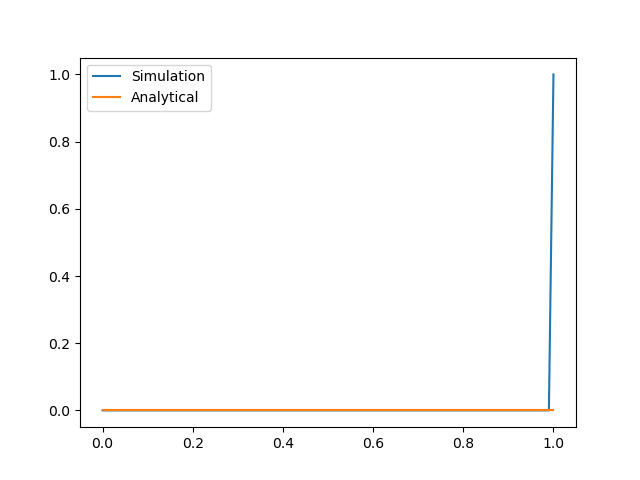
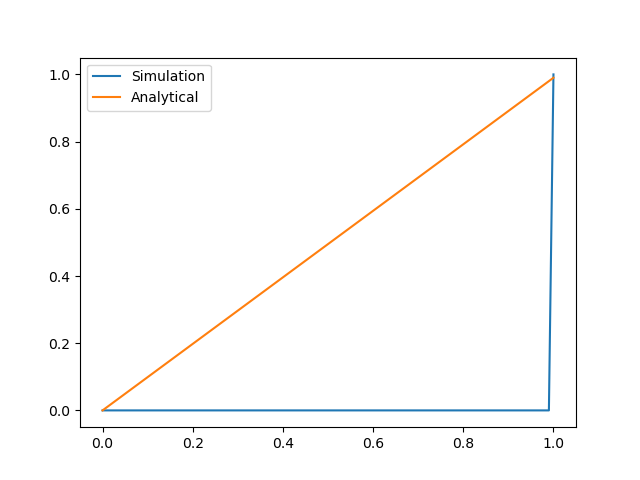
time independent

diff --git a/diffusion.py b/diffusion.py
@@ -43,26 +43,32 @@ def analytical(D, t, N):
 
     return line
 
-def plot(grid_list, analytical_list, t, N):
-    plt.plot(np.linspace(0, 1, N), grid_list[int(t/100)][:,0], label="Simulation")
-    plt.plot(np.linspace(0, 1, 25), analytical_list, label="Analytical")
+def plot(grid_list, analytical_list, t, N, animation_frames, delta_t):
+    plt.plot(np.linspace(0, 1, N), grid_list[int(delta_t*t/animation_frames)][:,0], label="Simulation")
+    plt.plot(np.linspace(0, 1, N), analytical_list, label="Analytical")
     plt.legend()
     plt.savefig(f"1.2_{t*delta_t:.3f}.png")
     plt.clf()
 
 delta_t = 0.00001
+animation_frames = 100
 
 grid_list = simulation(100, 1, 1, delta_t, run_simulation=False)
 
-for t in [1e-20, 0.001 / delta_t, 0.01 / delta_t, 0.1 / delta_t, 1 / delta_t]:
-    plot(grid_list, analytical(1, t * delta_t, 25), t, 100)
+for t in [1e-20, 0.001, 0.01, 0.1, 1]:
+    analytical_list = analytical(1, t, 100)
+    plt.plot(np.linspace(0, 1, 100), grid_list[int(t/(animation_frames*delta_t))+1][:,0], label=f"Simulation t={t:.3f}")
+    plt.plot(np.linspace(0, 1, 100), analytical_list, label=f"Analytical t={t:.3f}", linestyle='--')
+plt.legend()
+plt.savefig("experimental_analytical.png")
+plt.clf()
 
 i = 1
 print(len(grid_list))
 
-while np.sum(abs(grid_list[i] - grid_list[i-1])) > 1e-6:
-    plt.imshow(grid_list[i], origin='lower')
-    plt.draw()
-    plt.pause(0.001)
-    plt.clf()
-    i += 1
+# while np.sum(abs(grid_list[i] - grid_list[i-1])) > 1e-6:
+#     plt.imshow(grid_list[i], origin='lower')
+#     plt.draw()
+#     plt.pause(0.001)
+#     plt.clf()
+#     i += 1

diff --git a/time_independent_diff.py b/time_independent_diff.py
@@ -1,0 +1,44 @@
+import numpy as np
+import matplotlib.pyplot as plt
+
+def jacobi_iteration():
+    N = 100
+
+    grid = np.zeros((N, N))
+    grid[-1] = 1
+
+
+    grid_list = [np.zeros((N, N)), grid.copy()]
+
+    while max(abs(grid_list[-1] - grid_list[-2]).flatten()) > 1e-6:
+        grid[1:-1] = 0.25 * (np.roll(grid, 1, axis=0) + np.roll(grid, -1, axis=0) + np.roll(grid, 1, axis=1) + np.roll(grid, -1, axis=1))[1:-1]
+        grid_list.append(grid.copy())
+
+    return grid_list[-1]
+
+def gauss_seidel():
+    N = 100
+
+    grid = np.zeros((N, N))
+    grid[-1] = 1
+
+    grid_list = [np.zeros((N, N)), grid.copy()]
+
+    while max(abs(grid_list[-1] - grid_list[-2]).flatten()) > 1e-6:
+        new_grid = np.zeros((N, N))
+        new_grid[-1] = 1
+        for y in range(1, N-2):
+            new_grid[0, y] = 0.25 * (grid[0, y + 1] + grid[0, y - 1] + grid[1, y] + grid[-1, y])
+            for x in range(1, N-1):
+                new_grid[x, y] = 0.25 * (grid[x, y + 1] + new_grid[x, y - 1] + grid[x + 1, y] + new_grid[x - 1, y])
+
+        print(new_grid[0, 1])
+        grid = new_grid.copy()
+        grid_list.append(grid.copy())
+
+        plt.imshow(grid, origin='lower')
+        plt.show()
+    return grid_list[-1]
+
+plt.imshow(gauss_seidel(), origin='lower')
+plt.show()
